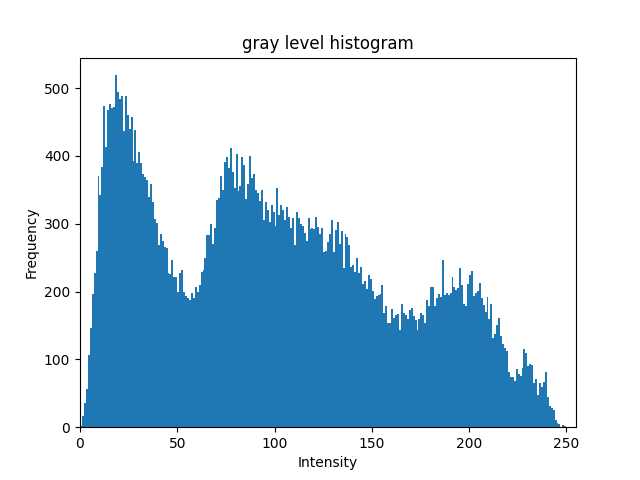
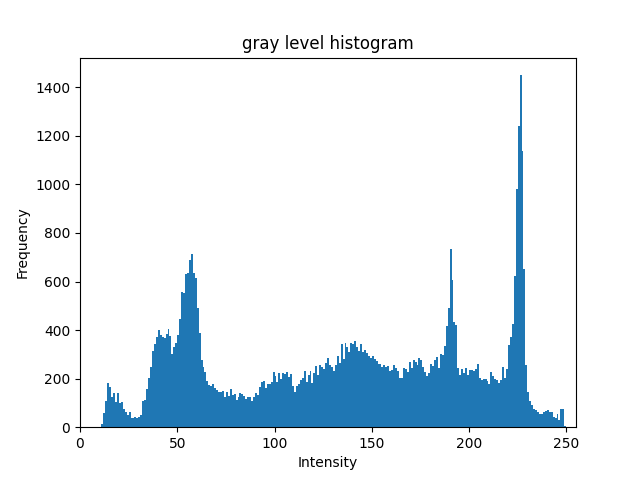
HW3 salt and pepper fi

diff --git a/app.py b/app.py
@@ -3,9 +3,9 @@ import cv2
 import numpy as np
 import matplotlib.pyplot as plt
 from PyQt5.QtWidgets import QApplication, QWidget
-from PyQt5.QtWidgets import QLabel,QPushButton,QFileDialog
+from PyQt5.QtWidgets import QLabel,QPushButton,QFileDialog,QInputDialog
 from PyQt5.QtGui import QIcon,QImage,QPixmap
-from PyQt5.QtCore import pyqtSlot
+from skimage.util import random_noise
 
 
 class MyWidget(QWidget):
@@ -23,20 +23,40 @@ class MyWidget(QWidget):
 
 		self.label1 = QLabel(self)
 		self.label2 = QLabel(self)
+		self.label3 = QLabel(self)
+		self.label4 = QLabel(self)
+		self.label5 = QLabel(self)
+		self.label6 = QLabel(self)
 		self.label1.setGeometry(25,75,300,200)
 		self.label2.setGeometry(375,75,300,200)
+		self.label3.setGeometry(725,75,300,200)
+		self.label4.setGeometry(25,350,300,200)
+		self.label5.setGeometry(375,350,300,200)
+		self.label6.setGeometry(725,350,300,200)
 		# button
 		self.btn1 = QPushButton('Open File',self)
 		self.btn1.move(325,150)
 		self.btn1.clicked.connect(self.file_manager)
+		
 		self.btn2 = QPushButton('Rotate Image',self)
-		self.btn2.move(480,30)
+		self.btn2.move(145,30)
 		self.btn2.clicked.connect(self.rotate_img)
 		self.btn2.hide()
+		
 		self.btn3 = QPushButton('Histogram',self)
-		self.btn3.move(300,30)
+		self.btn3.move(250,30)
 		self.btn3.clicked.connect(self.show_histogram)
 		self.btn3.hide()
+
+		self.btn4 = QPushButton('gaussian noise',self)
+		self.btn4.move(350,30)
+		self.btn4.clicked.connect(self.input_gaussian_noise_parameter)
+		self.btn4.hide()
+
+		self.btn5 = QPushButton('salt and pepper noise',self)
+		self.btn5.move(450,30)
+		self.btn5.clicked.connect(self.input_salt_gaussian_parameter)
+		self.btn5.hide()
 		# show the window
 		self.show()
 
@@ -63,7 +83,9 @@ class MyWidget(QWidget):
 		self.label2.setPixmap(self.canvas2)
 		self.btn2.show()
 		self.btn3.show()
-		self.btn1.move(125,30)
+		self.btn4.show()
+		self.btn5.show()
+		self.btn1.move(50,30)
 		self.canvas2.save('rotate.png','png')
 
 	def rotate_img(self):
@@ -104,10 +126,81 @@ class MyWidget(QWidget):
 			self.label2.setPixmap(self.canvas2)
 		except Exception as e:
 			print(e)
+	
+	def input_salt_gaussian_parameter(self):
+		try:
+			percentage, p_ok = QInputDialog.getDouble(self,'input dialog','input percentage')
+			if p_ok & (type(percentage)is int) or (type(percentage)is float):
+				self.noise_percentage = percentage
+				print(self.noise_percentage)
+				self.salt_and_pepper_noise()
+		except Exception as e:
+			print(e)
 
+	def input_gaussian_noise_parameter(self):
+		try:
+			variation,v_ok = QInputDialog.getDouble(self, 'input dialog', 'input variation')
+			if v_ok & ((type(variation) is int) or (type(variation) is float)):
+				standard_deviation,s_ok = QInputDialog.getDouble(self, 'input dialog', 'standard_deviation')
+				if s_ok & ((type(standard_deviation) is int) or (type(standard_deviation) is float)):
+					self.noise_parameter = [variation,standard_deviation]
+					print('noise percentage',self.noise_parameter)
+					self.gaussian_noise()
+				elif (type(standard_deviation) is not float) & s_ok:
+					print('standard deviation type error')
+			elif (type(variation) is not float) & v_ok:
+				print('variation type error')
+		except Exception as e:
+			print(e)
 
+	def gaussian_noise(self):
+		pass
+	
+	def salt_and_pepper_noise(self):
+		#pure noise
+		height = self.height
+		width = self.width
+		noise_percentage = self.noise_percentage
+		pure_noise = np.full((height, width),255, dtype = np.uint8)
+		pure_noise_image = random_noise(pure_noise,mode='s&p',amount = noise_percentage/100)
+		pure_noise_image = (pure_noise_image *255).astype(np.uint8)
+		#pure_noise_image = cv2.cvtColor(pure_noise_image,cv2.COLOR_BGR2GRAY)
+		cv2.imwrite('noise_pure.png',pure_noise_image)
 
+		# mix noise
+		mix_noise_image = self.img
+		mix_noise_image = mix_noise_image.astype(float)/255.0
+		self.noise_image = random_noise(mix_noise_image,mode='s&p',amount = self.noise_percentage/100)
+		self.noise_image = (self.noise_image *255).astype(np.uint8)
+		cv2.imwrite('noise_mix.png',self.noise_image)
+		self.show_pure_noise()
+		self.show_mix_noise()
+		
+		
 
+	def show_pure_noise(self):
+		self.setGeometry(500,500,1050,600)
+
+	def show_mix_noise(self):
+		noise_image_mix = cv2.imread('noise_mix.png')
+		noise_image_pure = cv2.imread('noise_pure.png')
+		self.setGeometry(500,500,1100,600)
+		noise = QImage(noise_image_pure,self.width,self.height,self.bytesPerline,QImage.Format_RGB888)
+		qimg = QImage(noise_image_mix,self.width,self.height,self.bytesPerline,QImage.Format_RGB888)
+		self.canvas3 = QPixmap(360,360).fromImage(qimg)
+		self.label3.setPixmap(self.canvas3)
+		self.canvas2 = QPixmap(360,360).fromImage(noise)
+		self.label2.setPixmap(self.canvas2)
+
+		#test
+		''' 
+		self.canvas4 = self.canvas3
+		self.label4.setPixmap(self.canvas4)
+		self.canvas5 = self.canvas3
+		self.label5.setPixmap(self.canvas5)
+		self.canvas6 = self.canvas3
+		self.label6.setPixmap(self.canvas6)
+		'''
 
 if __name__ == '__main__':
 	app = QApplication(sys.argv)
